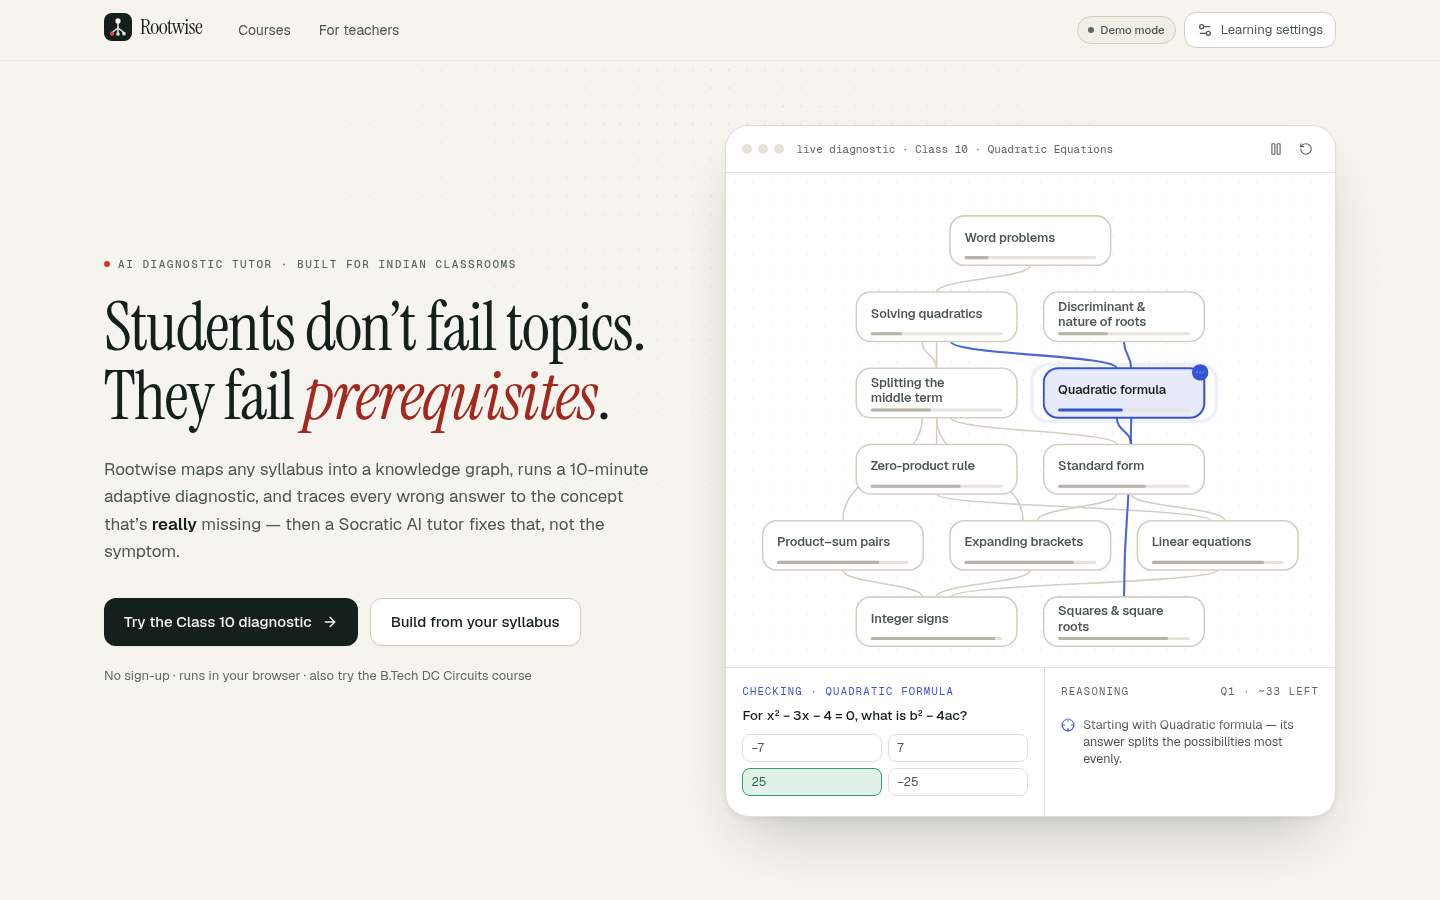
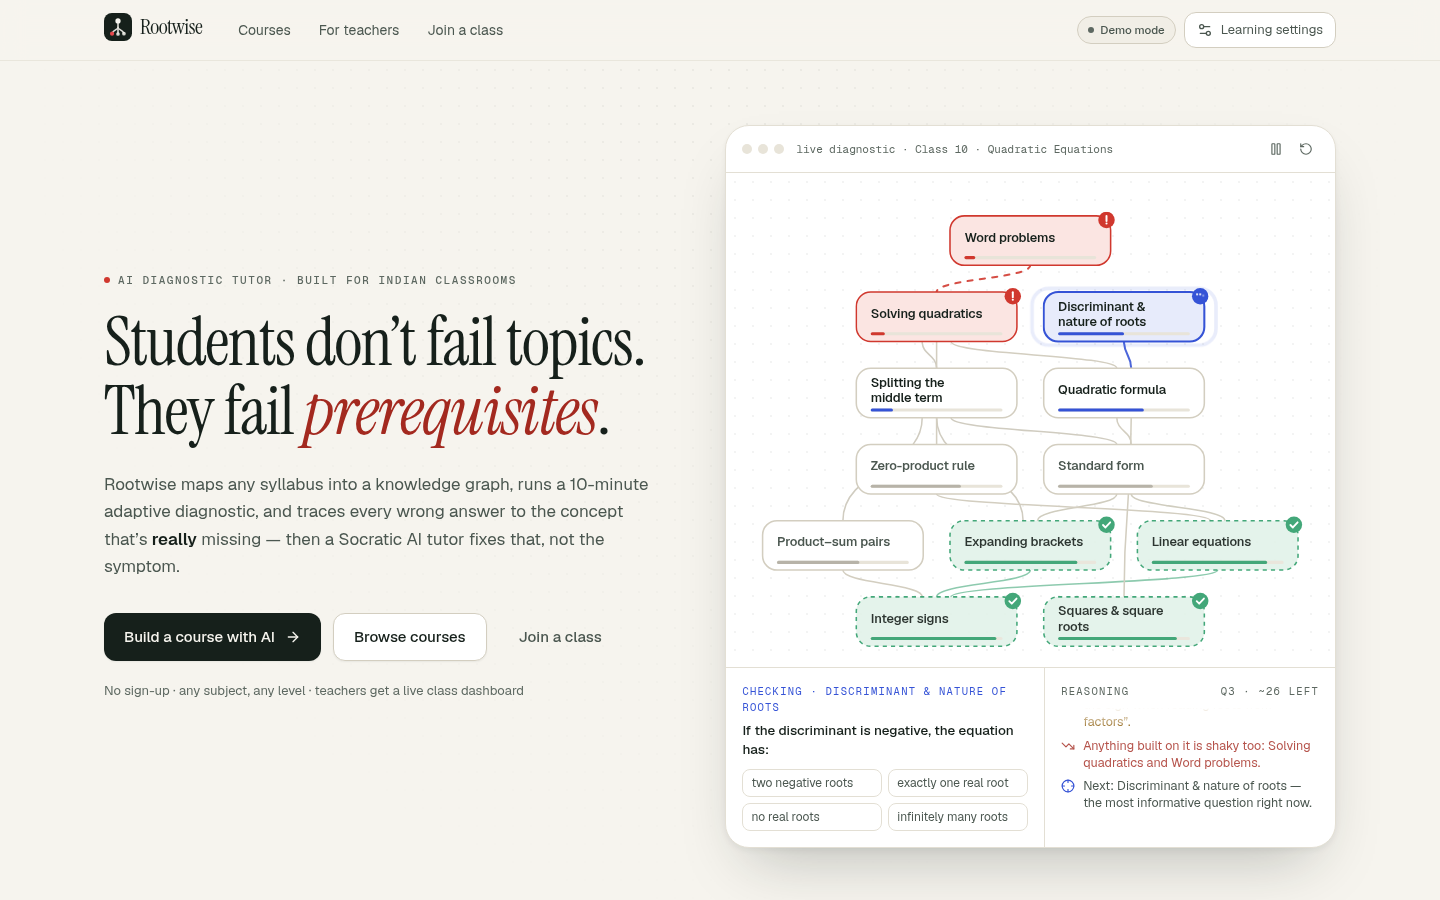
Refresh landing screenshot and shorten the primary call to action
Claude-Session: https://claude.ai/code/session_01GwBd6jLseftSfvbXLvQ2Ad

diff --git a/src/app/page.tsx b/src/app/page.tsx
@@ -64,7 +64,7 @@ export default function Home() {
             </p>
             <div className="mt-8 flex flex-wrap items-center gap-3">
               <ButtonLink href="/courses/new" size="lg">
-                Build a course from any syllabus <ArrowRight className="size-4" />
+                Build a course with AI <ArrowRight className="size-4" />
               </ButtonLink>
               <ButtonLink href="/courses" size="lg" variant="secondary">
                 Browse courses
